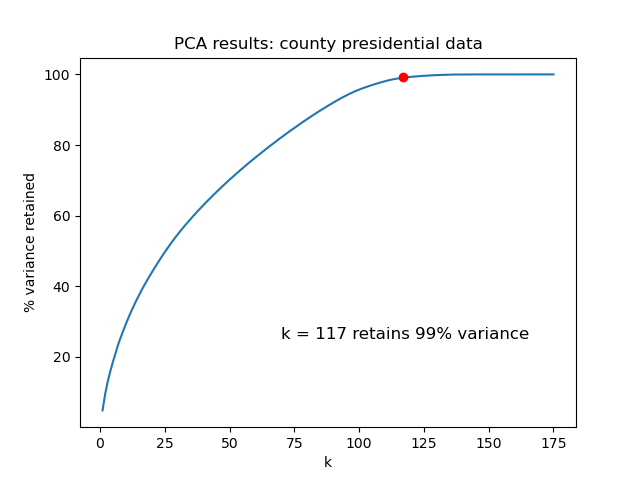
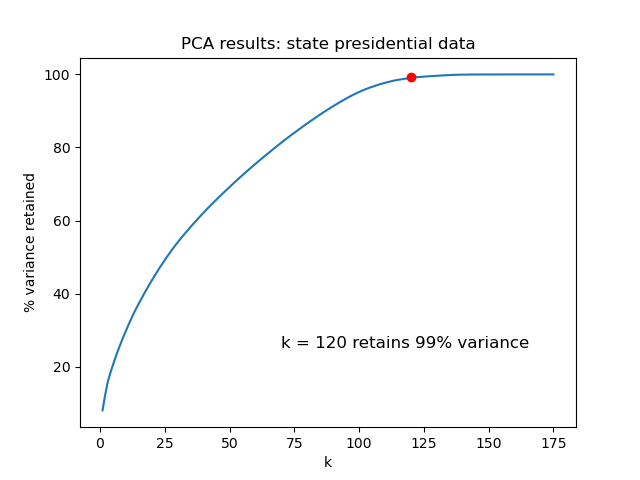
Added results, descriptions, images to report

diff --git a/index.md b/index.md
@@ -34,37 +34,42 @@ We used a series of Census API keys to pull data for each of the Census datasets
 Every data record has a unique combination of these keys, and the year generally varies from 2009 to 2019 (inclusive), the time range of data we were able to obtain from the census website. The state and county are two designated numeric identifiers, known as FIPS codes. A state is denoted by two digits, and a county is denoted by three digits, together forming a unique five-digit FIPS code. The census data is available for all counties in all states.
 
 ### Election Data
-We pull county-level data for presidential and senatorial races for the years within the range of available Census data; specifically, the 2012 and 2016 presidential elections, and all senatorial races from 2010 to 2018. This data is publicly available from Dave Leip's Atlas of U.S. Elections [[8]]. We implemented a script that utilizes Selenium, a browser automator software, to automatically browse pages on the site using URL and use HTML information to pull the data into .csv files. The results, available for each county for a given election year, serve as the basis for our labels. 
+We pull county-level data for presidential and senatorial races for the years within the range of available Census data; specifically, the 2012 and 2016 presidential elections, and all senatorial races from 2012 to 2018. This data is publicly available from Dave Leip's Atlas of U.S. Elections [[8]]. We implemented a script that utilizes Selenium, a browser automator software, to automatically browse pages on the site using URL and use HTML information to pull the data into .csv files. The results, available for each county for a given election year, serve as the basis for our labels. 
 
 ### Data handling
 - We removed categorical features, as encoding categorical features would have increased the dimensionality of the data.
 - We removed linearly dependent features, as they would not be useful for our model.
-- We used Random Forest Regression to impute features with missing data. If a feature had more than 20% missing data, it was removed. By doing this, we reduced the dimensionality of our data from an original amount of 200 to 183 features, out of which only 3 needed to be imputed.
+- We used Random Forest Regression to impute features with missing data. If a feature had more than 20% missing data, it was removed. By doing this, we reduced the dimensionality of our data from an original amount of 200 to 175 features, out of which 10 needed to be imputed.
 - We normalized the data, to reduce the variance of the data.
-- We constructed dataloaders to handle all preprocessing.
+- We constructed dataloaders to handle all preprocessing and feature extraction. For different models, we employed different feature extraction approaches - see the figure below (TODO).
 - Finally, we merged the election results with the Census Data using an inner join on the aforementioned three primary keys.
+
+![Feature extraction](/docs/assets/feature_extraction.png)
 
 ### Final dataset statistics
 
 |                   | Data points (county/state/year) | Positive labels | Non-positive labels |
 |-------------------|-------------|-----------------|---------------------|
-| Presidential data | 5856        | 510             | 5346                |
-| Senatorial data   | 9334        | 1906            | 7427                |
+| Presidential data | 5860        | 509             | 5351                |
+| Senatorial data   | 7434        | 1234            | 6200                |
 
 ## Methods
 
 ### Unsupervised learning (PCA for dimensionality reduction)
-After preprocessing the data, we implemented Principal Component Analysis (PCA) for identifying the most important principal components, and aimed to retain 99% variance. By using PCA, we reduced the dimensionality of the dataset, while observing which features are the most desirable for a model predicting election results. We implemented PCA using the scikit-learn library. Results and selected values of k are shown in plots in the "Results and discussion" section.
+After preprocessing the data, we implemented Principal Component Analysis (PCA) for identifying the most important principal components, and aimed to retain 99% variance. By using PCA, we reduced the dimensionality of the dataset, while observing which features are the most desirable for a model predicting election results. We implemented PCA using the scikit-learn library. Results and selected values of k are shown in plots in the "Results" section.
 
-### Supervised learning
-For classification, we utilized three scikit-learn models, along with an ensemble model that combines the three. The models are:
+### Supervised learning 
+For classification, we utilized three `scikit-learn` models, along with an ensemble model that combines the three. The models are:
 - AdaBoostClassifier
 - RandomForestClassifier
 - BaggingClassifier
 
-Also, in order to address the large class imbalance in our data, we utilized a SMOTE [[9]](https://machinelearningmastery.com/smote-oversampling-for-imbalanced-classification/) over-sampler to create synthetic data of the minority class in order to create a class balance of 1 in our training data. In addition, we use an undersampler to reduce the number of samples in the majority class. Both are from the Python library `imblearn`. 
+In addition to the above models, we implemented a recurrent neural network (RNN) using Keras.
 
-## Results and discussion
+### SMOTE: addressing the class imbalance
+For all the above approaches, in order to address the large class imbalance in our data, we utilized a SMOTE [[9]](https://machinelearningmastery.com/smote-oversampling-for-imbalanced-classification/) over-sampler to create synthetic data of the minority class in order to create a class balance of 1 in our training data. In addition, we use an undersampler to reduce the number of samples in the majority class. Both are from the Python library `imblearn`. 
+
+## Results
 
 ### PCA
 
@@ -76,10 +81,10 @@ PCA results: presidential data  |  PCA results: senatorial data
 
 This table shows the F1 scores of each model for each dataset:
 
-|                   | AdaBoost | Random Forest | Bagging | Ensemble |
-|-------------------|----------|---------------|---------|----------|
-| Presidential data | 0.179    | 0.112         | 0.167   | 0.118    |
-| Senatatorial data | 0.350    | 0.258         | 0.267   | 0.284    |
+|                   | AdaBoost | Random Forest | Bagging | Ensemble | RNN |
+|-------------------|----------|---------------|---------|----------|-----|
+| Presidential data | 0.179    | 0.112         | 0.167   | 0.118    | 0.456 |
+| Senatatorial data | 0.350    | 0.258         | 0.267   | 0.284    | 0.476    |
 
 The following are confusion matrices that correspond to the models with the best F1-scores for each dataset:
 
@@ -97,6 +102,14 @@ AdaBoost for Senatorial:
 | Non-flip | 988      | 518  |
 | Flip     | 176      | 187  |
 
+The following is a plot representing the degree to which the F1-score, precision, and recall vary with the AdaBoost Senatorial classifier. The variable W represents the ratio to which the minority class ("Flip") is prioritized over the majority class ("Non-flip") at the time of training. We observe that for the F1-score stays roughly the same as W increases, buoyed by a gradual increase in recall but a gradual decrease in precision.
+
+![AdaBoost plot](/docs/assets/adaboost_plot.png)
+
+## Conclusions
+
+TODO: what are our conclusions?
+
 From our preliminary results, we observe that our model faces the following challenges:
 - Curse of dimensionality. We use either 117 or 118 PCA-created columns as our features, which we believe may still be too many to make distances between points in Euclidean space be meaningful.
 - Lack of real-world samples in the minority class. In real-world elections, only a small handful of elections see power transferred from one party to another. This creates a large, but natural, imbalance in the dataset that we observe even SMOTE can only partially correct.
@@ -106,26 +119,6 @@ From our preliminary results, we observe that our model faces the following chal
 
 https://github.com/V-TERM/cs7641_census_project/blob/668bfdc1adaf488440158ca84231d255c03efdf6/Project_Proposal.mp4
 
-## Distribution of Work
-
-| Task | Team |
-|------|------|
-| Data download and preprocessing | All |
-| Unsupervised model | Monish, Eric, Vyshnavi |
-| Supervised model | Ramachandren, Tony |
-
-## Timeline
-
-| Date | Description |
-|------|-------------|
-| Oct 19 | Select datasets and attributes in census data to use; select preliminary model design. |
-| Oct 26 | Complete extraction of census dataset; begin writing preprocessing and PCA scripts. |
-| Nov 02 | Complete data preprocessing and PCA; begin training model and evaluating results. |
-| Nov 09 | Continue training and evaluation; work on improving methodology. |
-| Nov 16 | Midterm report due. Finalize results for report. |
-| Nov 23 | Continue training and evaluation; work on improving methodology. |
-| Nov 30 | Continue training and evaluation; work on improving methodology. |
-| Dec 07 | Final report due. Finalize results for report. |
           
 ## References
 <a id="1">[1]</a> United States Census. "Explore Census Data." Retrieved from https://data.census.gov/cedsci/.
